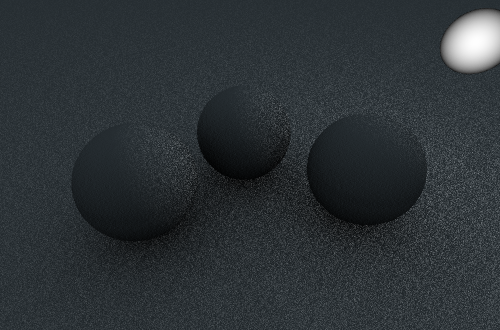
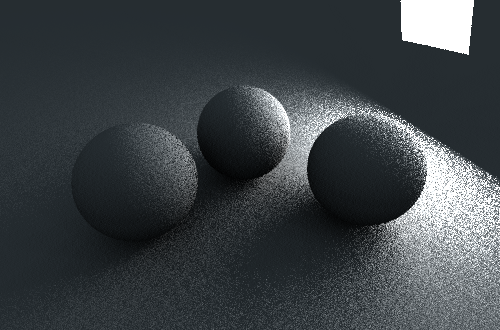
矩形灯光

diff --git a/src/core/GeometricObject.py b/src/core/GeometricObject.py
@@ -32,7 +32,7 @@ class GeometricObject:
 class Plane(GeometricObject):
 	def __init__(self, shader, point, normal):
 		GeometricObject.__init__(self, shader, point)
-		self.normal = normal
+		self.normal = normal.get_normalized()
 
 	def hit(self, ray, hit, epsilon):
 		t = Vector3.dot((self.point - ray.origin), self.normal) / (Vector3.dot(ray.direction, self.normal))
@@ -45,6 +45,9 @@ class Plane(GeometricObject):
 			return True
 		else:
 			return False
+
+	def get_normal(self, point):
+		return self.normal
 
 	def shadowhit(self, ray, shadowhit, epsilon):
 		t = Vector3.dot((self.point - ray.origin), self.normal) / (Vector3.dot(ray.direction, self.normal))
@@ -63,10 +66,76 @@ class Plane(GeometricObject):
 		s = params["shader"]
 		return Plane(s, pos, n)
 
+class Rectangle(Plane):
+	def __init__(self, shader, point, normal, right, up):
+		Plane.__init__(self, shader, point, normal)
+		self.width_squared = right.sqr_magnitude()
+		self.height_squared = up.sqr_magnitude()
+		self.invArea = 1/(right.magnitude()*up.magnitude())
+		self.right = right
+		self.up = up
+
+	def hit(self, ray, hit, epsilon):
+		t = Vector3.dot((self.point - ray.origin), self.normal) / (Vector3.dot(ray.direction, self.normal))
+		if t <= epsilon:
+			return False
+		if t > hit.t:
+			return False
+		p = ray.origin + t * ray.direction
+		d = p - self.point
+		ddw = Vector3.dot(d, self.right)
+		if ddw < 0.0 or ddw > self.width_squared:
+			return False
+		ddh = Vector3.dot(d, self.up)
+		if ddh < 0.0 or ddh > self.height_squared:
+			return False
+		hit.t = t
+		hit.normal = self.normal
+		hit.point = p
+		return True
+
+	def get_normal(self, point):
+		return self.normal
+
+	def sample(self):
+		sp = self.sampler.sample_unit_square()
+		return self.point+(sp.x*2-1)*self.right+(sp.y*2-1)*self.up
+
+	def pdf(self, hit):
+		return self.invArea
+
+	def shadowhit(self, ray, shadowhit, epsilon):
+		t = Vector3.dot((self.point - ray.origin), self.normal) / (Vector3.dot(ray.direction, self.normal))
+		if t <= epsilon:
+			return False
+		if t > shadowhit.t:
+			return False
+		p = ray.origin + t * ray.direction
+		d = p - self.point
+		ddw = Vector3.dot(d, self.right)
+		if ddw < 0.0 or ddw > self.width_squared:
+			return False
+		ddh = Vector3.dot(d, self.up)
+		if ddh < 0.0 or ddh > self.height_squared:
+			return False
+		shadowhit.t = t
+		return True
+
+	@staticmethod
+	def create(params):
+		pos = Vector3(params["point"][0], params["point"][1], params["point"][2])
+		n = Vector3(params["normal"][0], params["normal"][1], params["normal"][2])
+		r = Vector3(params["right"][0], params["right"][1], params["right"][2])
+		u = Vector3(params["up"][0], params["up"][1], params["up"][2])
+		s = params["shader"]
+		return Rectangle(s, pos, n, r, u)
+
+
 class Sphere(GeometricObject):
 	def __init__(self, shader, point, radius):
 		GeometricObject.__init__(self, shader, point)
 		self.radius = radius
+		self.invArea = 1/(4*math.pi*self.radius*self.radius)
 
 	def hit(self, ray, hit, epsilon):
 		tocenter = ray.origin - self.point
@@ -110,7 +179,7 @@ class Sphere(GeometricObject):
 		return self.point+Vector3(sp.x*self.radius,sp.y*self.radius, sp.z*self.radius)
 
 	def pdf(self, hit):
-		return 1/(4*math.pi*self.radius*self.radius)
+		return self.invArea
 
 	def shadowhit(self, ray, shadowhit, epsilon):
 		tocenter = ray.origin - self.point

diff --git a/src/core/Light.py b/src/core/Light.py
@@ -32,7 +32,7 @@ class PointLight(Light):
 
 	def in_shadow(self, scene, ray):
 		ts = Vector3.distance(self.position, ray.origin)
-		return scene.tracer.shadow_hit(ray, ts, 0.00001)
+		return scene.tracer.shadow_hit(ray, 0.00001, lambda t:0<t<ts)
 
 	def L(self, hit, scene):
 		rp = (hit.point - self.position).sqr_magnitude()
@@ -59,7 +59,7 @@ class DirectionalLight(Light):
 		return self.direction
 
 	def in_shadow(self, scene, ray):
-		return scene.tracer.shadow_hit(ray, -1, 0.00001)
+		return scene.tracer.shadow_hit(ray, 0.00001)
 
 	def L(self, hit, scene):
 		return self.ls*self.color
@@ -106,7 +106,7 @@ class AmbientOccluder(Light):
 		return pos.x*self.u + pos.y*self.v+pos.z*self.w
 
 	def in_shadow(self, scene, ray):
-		return scene.tracer.shadow_hit(ray, -1, 0.00001)
+		return scene.tracer.shadow_hit(ray, 0.00001)
 
 	def L(self, hit, scene):
 		self.w = hit.normal
@@ -144,15 +144,17 @@ class AreaLight(Light):
 
 	def in_shadow(self, scene, ray):
 		ts = Vector3.dot(self.sample_point - ray.origin, ray.direction)
-		return scene.tracer.shadow_hit(ray, ts, 0.00001)
+		return scene.tracer.shadow_hit(ray, 0.00001,lambda t:t<ts)
 
 	def L(self, hit, scene):
-		ndl = max(0, Vector3.dot(-1*self.light_normal, self.light_dir))
-		return ndl * self.material.shade(hit, scene, 0, 'em_main')
+		ndl = Vector3.dot(-1*self.light_normal, self.light_dir)
+		if ndl > 0.0:
+			return self.material.shade(hit, scene, 0, 'em_main')
+		return Color.black
 
 
 	def G(self, hit):
-		ndl = max(0, Vector3.dot(-1*self.light_normal, self.light_dir))
+		ndl = Vector3.dot(-1*self.light_normal, self.light_dir)
 		return ndl/((hit.point-self.sample_point).sqr_magnitude())
 
 	def pdf(self, hit):

diff --git a/src/core/Tracer.py b/src/core/Tracer.py
@@ -57,9 +57,9 @@ class SimpleTracer(Tracer):
 	def trace(self, ray, scene, epsilon):
 		return SimpleTracer.__trace_recursion(self, ray, scene, epsilon, 0)
 	
-	def shadow_hit(self, ray, distance, epsilon):
+	def shadow_hit(self, ray, epsilon, shadowFilter = None):
 		shadowhit = ShadowHit()
-		return SimpleTracer.__shadow_trace(self, ray, shadowhit, distance, epsilon)
+		return SimpleTracer.__shadow_trace(self, ray, shadowhit, epsilon, shadowFilter)
 
 	def __trace_recursion(self, ray, scene, epsilon, n):
 		hit = RayTracingHit()
@@ -83,12 +83,12 @@ class SimpleTracer(Tracer):
 				result = True
 		return result
 
-	def __shadow_trace(self, ray, shadowhit, distance, epsilon):
+	def __shadow_trace(self, ray, shadowhit, epsilon, shadowFilter):
 		shadowhit.reset()
 		for g in self.gemoetries:
 			if g.shadowhit(ray, shadowhit, epsilon):
-				if distance > 0:
-					if shadowhit.t < distance:
+				if shadowFilter != None:
+					if shadowFilter(shadowhit.t):
 						return True
 				else:
 					return True

diff --git a/src/core/Sampler.py b/src/core/Sampler.py
@@ -136,15 +136,15 @@ class HammersleySampler(Sampler):
 		Sampler.__init__(self, numSamples, numSets)
 		for i in range(0, self.num_sets):
 			for j in range(0, self.num_samples):
-				sp = Vector2(j/self.num_samples, Hammersley.__phi(self, j))
+				sp = Vector2(j/self.num_samples, HammersleySampler.__phi(self, j))
 				self.samples.append(sp)
 
 	def __phi(self, j):
 		x = 0.0
 		f = 0.5
-		while j:
+		while int(j)>0:
 			x += f * (j%2)
-			j /= 2
+			j = j/ 2
 			f *= 0.5
 		return x
 

diff --git a/res/shaders/emissive.shader.py b/res/shaders/emissive.shader.py
@@ -1,10 +1,10 @@
 def main(hit, scene, reflcol, output):
-	ndr = max(0, Vector3.dot(-1*hit.normal, hit.ray.direction))
+	#ndr = max(0, Vector3.dot(-1*hit.normal, hit.ray.direction))
 	col = Color(ce[0], ce[1], ce[2], ce[3])
-	output['result'] = ndr*ls*col
+	output['result'] = ls*col
 
 def em_main(hit, scene, reflcol, output):
 	col = Color(ce[0], ce[1], ce[2], ce[3])
 
-	output['result'] = col
+	output['result'] = ls*col
 

diff --git a/res/shaders/diffuse.shader.py b/res/shaders/diffuse.shader.py
@@ -21,7 +21,7 @@ def main(hit, scene, reflcol, output):
 			inshadow = light.in_shadow(scene, sray)
 		ndl = max(0, Vector3.dot(hit.normal.get_normalized(), ldir))
 		if inshadow == False:
-			col = col + (difk*dcol/3.1415926)* (ndl* light.L(hit, scene))
+			col = col + (difk*dcol/3.1415926)* (ndl*light.G(hit)* light.L(hit, scene)/light.pdf(hit))
 
 	output['result'] = col
 

diff --git a/src/core/Material.py b/src/core/Material.py
@@ -41,3 +41,6 @@ class Material:
 		if 'result' in self.params['output']:
 			return self.params['output']['result']
 		return Color.error
+
+Material.main_pass = 'main'
+Material.em_pass = 'em_main'
